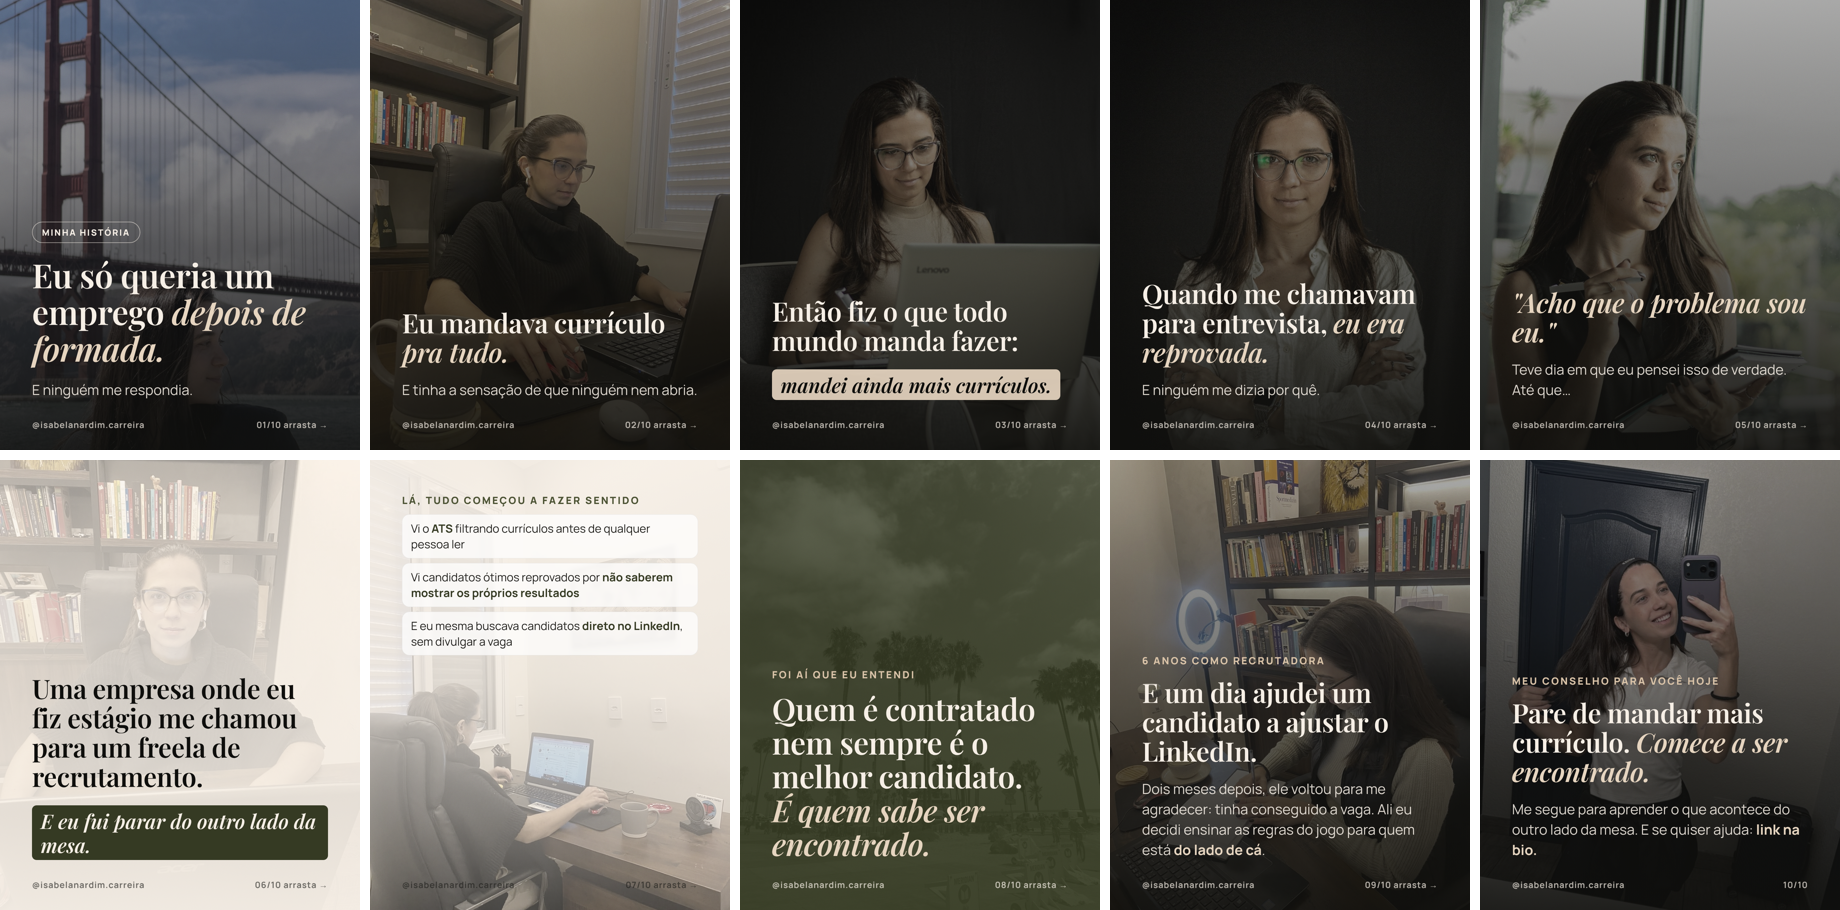
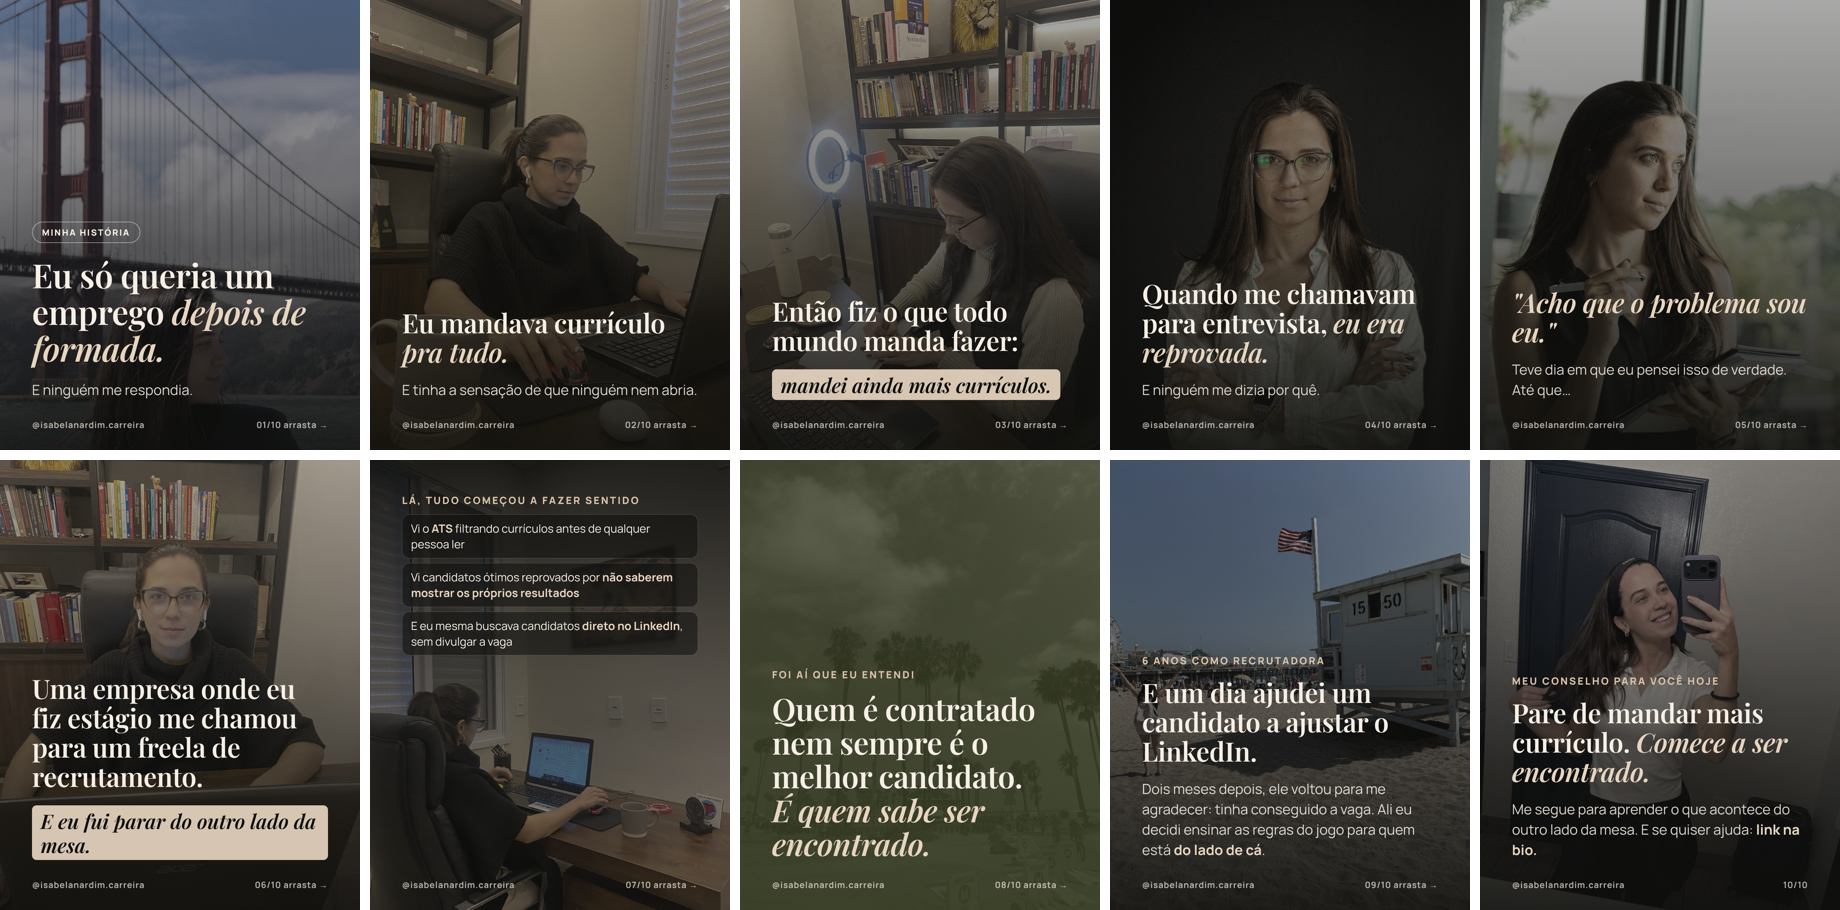
Carrossel 02: slides 6 e 7 escuros e foto da praia de volta
Claude-Session: https://claude.ai/code/session_01AzuLBoXsmNsssuJ9XVMdYB

diff --git a/conteudo/carrossel-02-minha-historia/slides.html b/conteudo/carrossel-02-minha-historia/slides.html
@@ -23,7 +23,9 @@ em{font-style:italic}
 .claro{color:#1d1c19}.claro .bg{filter:saturate(.35) brightness(1.1)}.claro .veu{background:linear-gradient(180deg,rgba(246,239,230,.55) 0%,rgba(246,239,230,.8) 45%,rgba(246,239,230,.96) 100%)}
 .claro em{color:#4b5233}.claro .kicker{color:#4b5233}.claro b{color:#353a23}.claro h2{color:#0e0e0c}
 .claro .nota{background:#353a23;color:#f6efe6}.claro .rodape{color:rgba(29,28,25,.6)}
-.topo .cont{top:130px;bottom:auto}.claro.topo .veu{background:linear-gradient(0deg,rgba(246,239,230,.25) 0%,rgba(246,239,230,.75) 50%,rgba(246,239,230,.95) 100%)}.topo .cont{top:100px}.topo .lista{gap:14px}.topo .lista li{font-size:34px;padding:18px 26px}.topo .kicker{margin-bottom:22px}
+.topo .cont{top:130px;bottom:auto}.escuro.topo .veu{background:linear-gradient(0deg,rgba(14,14,12,.35) 0%,rgba(14,14,12,.6) 45%,rgba(14,14,12,.92) 100%)}
+.escuro .lista li{background:rgba(14,14,12,.55);color:#f6efe6;border:1px solid rgba(230,213,192,.3);backdrop-filter:blur(4px)}
+.claro.topo .veu{background:linear-gradient(0deg,rgba(246,239,230,.25) 0%,rgba(246,239,230,.75) 50%,rgba(246,239,230,.95) 100%)}.topo .cont{top:100px}.topo .lista{gap:14px}.topo .lista li{font-size:34px;padding:18px 26px}.topo .kicker{margin-bottom:22px}
 .musgo{color:#f6efe6}.musgo .bg{filter:grayscale(1) contrast(1.05)}.musgo .veu{background:linear-gradient(180deg,rgba(53,58,35,.78),rgba(53,58,35,.95))}
 .musgo em{color:#e6d5c0}.musgo .kicker{color:#d9c3a8}.musgo .rodape{color:rgba(246,239,230,.7)}
 </style></head><body>
@@ -32,21 +34,21 @@ em{font-style:italic}
 <p class="txt">E ninguém me respondia.</p></div><div class="rodape"><span>@isabelanardim.carreira</span><span>01/10 arrasta →</span></div></section>
 <section class="s escuro" id="s2"><div class="bg" style="background-image:url(fotos/mesa-digitando.jpg);background-position:50% 30%"></div><div class="veu"></div><div class="grao"></div><div class="cont"><h2>Eu mandava currículo <em>pra tudo.</em></h2>
 <p class="txt">E tinha a sensação de que ninguém nem abria.</p></div><div class="rodape"><span>@isabelanardim.carreira</span><span>02/10 arrasta →</span></div></section>
-<section class="s escuro" id="s3"><div class="bg" style="background-image:url(fotos/notebook.jpg);background-position:50% 45%"></div><div class="veu"></div><div class="grao"></div><div class="cont"><h2>Então fiz o que todo mundo manda fazer:</h2>
+<section class="s escuro" id="s3"><div class="bg" style="background-image:url(fotos/mesa-escrevendo.jpg);background-position:60% 40%"></div><div class="veu"></div><div class="grao"></div><div class="cont"><h2>Então fiz o que todo mundo manda fazer:</h2>
 <p class="nota">mandei ainda mais currículos.</p></div><div class="rodape"><span>@isabelanardim.carreira</span><span>03/10 arrasta →</span></div></section>
 <section class="s escuro" id="s4"><div class="bg" style="background-image:url(fotos/bracos.jpg);background-position:50% 25%"></div><div class="veu"></div><div class="grao"></div><div class="cont"><h2>Quando me chamavam para entrevista, <em>eu era reprovada.</em></h2>
 <p class="txt">E ninguém me dizia por quê.</p></div><div class="rodape"><span>@isabelanardim.carreira</span><span>04/10 arrasta →</span></div></section>
 <section class="s escuro" id="s5"><div class="bg" style="background-image:url(fotos/janela.jpg);background-position:50% 30%"></div><div class="veu"></div><div class="grao"></div><div class="cont"><h2><em>"Acho que o problema sou eu."</em></h2>
 <p class="txt">Teve dia em que eu pensei isso de verdade. Até que…</p></div><div class="rodape"><span>@isabelanardim.carreira</span><span>05/10 arrasta →</span></div></section>
-<section class="s claro" id="s6"><div class="bg" style="background-image:url(fotos/mesa-frente.jpg);background-position:50% 20%"></div><div class="veu"></div><div class="grao"></div><div class="cont"><h2>Uma empresa onde eu fiz estágio me chamou para um freela de recrutamento.</h2>
+<section class="s escuro" id="s6"><div class="bg" style="background-image:url(fotos/mesa-frente.jpg);background-position:50% 20%"></div><div class="veu"></div><div class="grao"></div><div class="cont"><h2>Uma empresa onde eu fiz estágio me chamou para um freela de recrutamento.</h2>
 <p class="nota">E eu fui parar do outro lado da mesa.</p></div><div class="rodape"><span>@isabelanardim.carreira</span><span>06/10 arrasta →</span></div></section>
-<section class="s claro topo" id="s7"><div class="bg" style="background-image:url(fotos/mesa-linkedin.jpg);background-position:30% 0%"></div><div class="veu"></div><div class="grao"></div><div class="cont"><p class="kicker">Lá, tudo começou a fazer sentido</p>
+<section class="s escuro topo" id="s7"><div class="bg" style="background-image:url(fotos/mesa-linkedin.jpg);background-position:30% 0%"></div><div class="veu"></div><div class="grao"></div><div class="cont"><p class="kicker">Lá, tudo começou a fazer sentido</p>
 <ul class="lista"><li>Vi o <b>ATS</b> filtrando currículos antes de qualquer pessoa ler</li>
 <li>Vi candidatos ótimos reprovados por <b>não saberem mostrar os próprios resultados</b></li>
 <li>E eu mesma buscava candidatos <b>direto no LinkedIn</b>, sem divulgar a vaga</li></ul></div><div class="rodape"><span>@isabelanardim.carreira</span><span>07/10 arrasta →</span></div></section>
 <section class="s musgo" id="s8"><div class="bg" style="background-image:url(fotos/palmeiras.jpg);background-position:30% 30%"></div><div class="veu"></div><div class="grao"></div><div class="cont"><p class="kicker">Foi aí que eu entendi</p>
 <h2 class="grande">Quem é contratado nem sempre é o melhor candidato.<br><em>É quem sabe ser encontrado.</em></h2></div><div class="rodape"><span>@isabelanardim.carreira</span><span>08/10 arrasta →</span></div></section>
-<section class="s escuro" id="s9"><div class="bg" style="background-image:url(fotos/mesa-escrevendo.jpg);background-position:60% 40%"></div><div class="veu"></div><div class="grao"></div><div class="cont"><p class="kicker">6 anos como recrutadora</p>
+<section class="s escuro" id="s9"><div class="bg" style="background-image:url(fotos/praia.jpg);background-position:30% 50%"></div><div class="veu"></div><div class="grao"></div><div class="cont"><p class="kicker">6 anos como recrutadora</p>
 <h2>E um dia ajudei um candidato a ajustar o LinkedIn.</h2>
 <p class="txt">Dois meses depois, ele voltou para me agradecer: tinha conseguido a vaga. Ali eu decidi ensinar as regras do jogo para quem está <b>do lado de cá</b>.</p></div><div class="rodape"><span>@isabelanardim.carreira</span><span>09/10 arrasta →</span></div></section>
 <section class="s escuro" id="s10"><div class="bg" style="background-image:url(fotos/espelho.jpg);background-position:50% 30%"></div><div class="veu"></div><div class="grao"></div><div class="cont"><p class="kicker">Meu conselho para você hoje</p>
